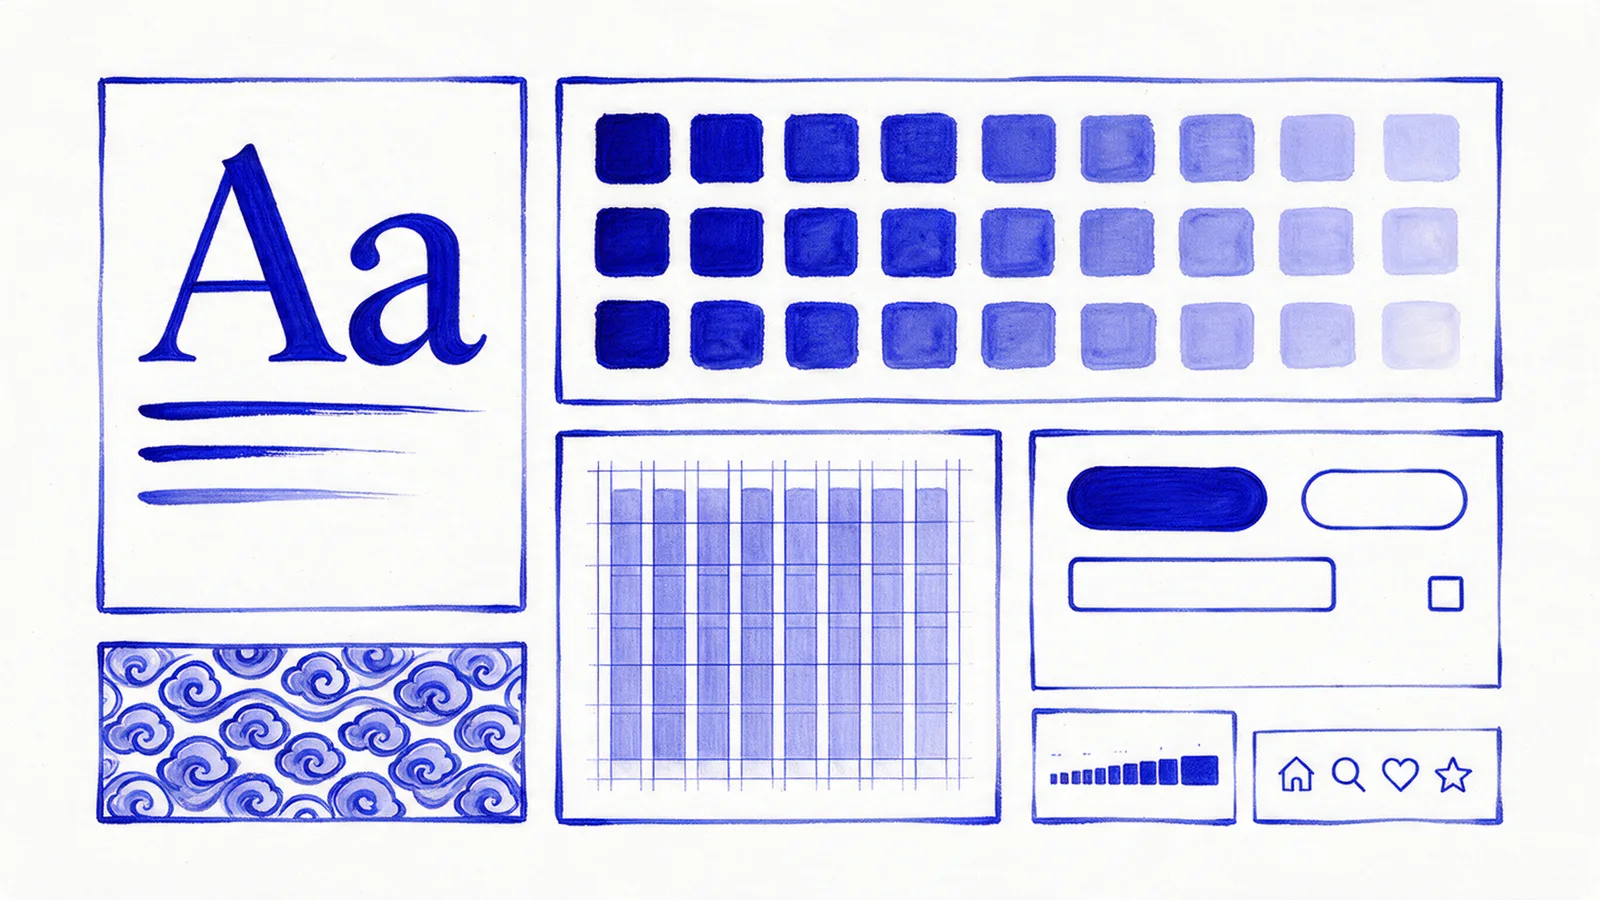
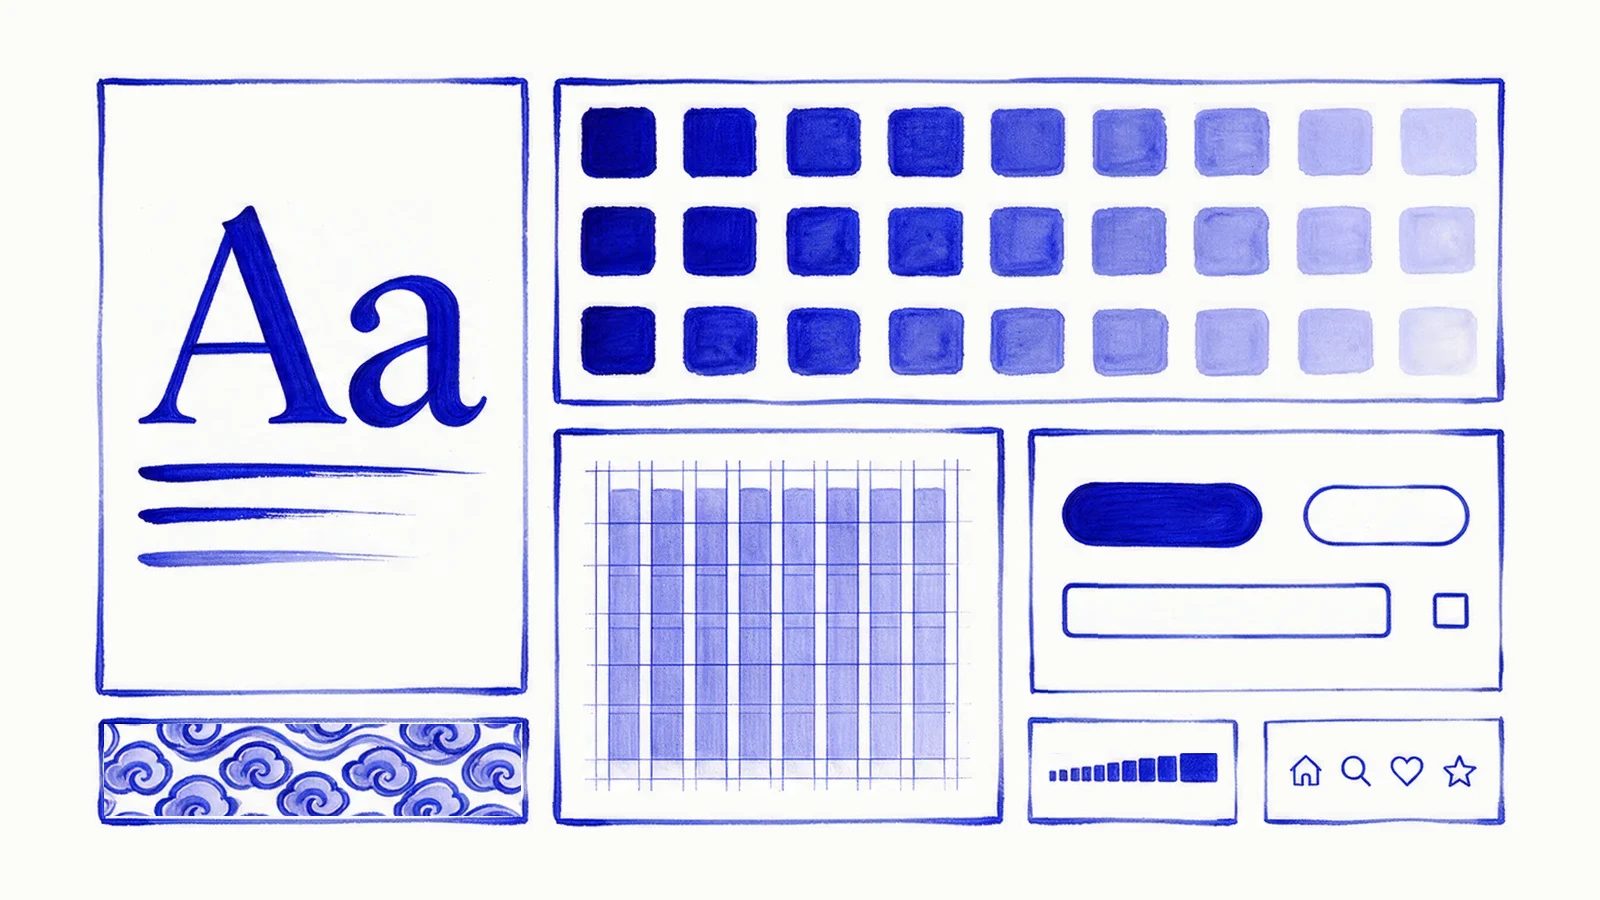
feat: round 12 — brands one per pane, coffee button on phones, pig and vase, contact cloud, framed Workshop lattice, EonX cover on a grid

Changed region(s): [[0.0625, 0.0622, 0.9375, 0.9333], [0.875, 0.3111, 0.9062, 0.3422], [0.8125, 0.3111, 0.8438, 0.3422]]

diff --git a/src/data/clients.ts b/src/data/clients.ts
@@ -1,13 +1,15 @@
 /**
- * The brands in the social-proof window (Clients.astro), in order (Ed, round 11). Drop a logo file in public/logos/
- * and set `logo` to its path (already cobalt: see art/round11/logos/build.mjs, which makes them); until then the
- * name shows as a plain wordmark. Punters and Racenet still need files from Ed (their sites can't be fetched).
+ * The brands in the social-proof window (Clients.astro), one per pane, left to right (Ed, rounds 11 and 12: six panes,
+ * six brands). Drop a logo file in public/logos/ and set `logo` to its path (already cobalt: see
+ * art/round11/logos/build.mjs, which makes them); until then the name shows as a plain wordmark. Punters and Racenet
+ * still need files from Ed (their sites can't be fetched).
  */
 export interface Client { name: string; logo?: string }
 
 export const clients: Client[] = [
   { name: 'Punters' },
   { name: 'Racenet' },
+  { name: 'EonX', logo: '/logos/eonx.webp' },
   { name: 'Mastercard', logo: '/logos/mastercard.webp' },
   { name: 'Crown', logo: '/logos/crown.webp' },
   { name: 'New Aim', logo: '/logos/newaim.webp' },

diff --git a/src/scripts/coffee.ts b/src/scripts/coffee.ts
@@ -90,7 +90,9 @@ export function initCoffee(root: HTMLElement): () => void {
   show(shown);
   render();
 
-  button.addEventListener('click', () => {
+  const sip = root.querySelector<HTMLElement>('[data-sip-cup]');
+  const touch = !window.matchMedia('(hover: hover)').matches;
+  const give = () => {
     const before = stateFor(energy);
     energy = topped(energy);
     cups++;
@@ -103,7 +105,11 @@ export function initCoffee(root: HTMLElement): () => void {
       const r = face.getBoundingClientRect();
       burst(r.left + r.width / 2, r.top + r.height * 0.3);
     }
-  });
+    // touch screens: the cup rises from his lower left and tips to his mouth (Ed, round 12)
+    if (touch && sip) { sip.classList.remove('is-sip'); void sip.offsetWidth; sip.classList.add('is-sip'); }
+  };
+  button.addEventListener('click', give);
+  root.querySelector('[data-caffeinate]')?.addEventListener('click', give);
 
   // the cup: follows the mouse over his face in place of the cursor (mouse and pen only; phones just tap him)
   if (cup && window.matchMedia('(hover: hover)').matches) {

diff --git a/docs/HANDOFF.md b/docs/HANDOFF.md
@@ -1,6 +1,6 @@
 # Porcelain portfolio — handoff
 
-_Last updated 2026-10-05 (after the round 3–8 commit). Read this first in any new session, then the spec._
+_Last updated 2026-10-07 (round 12). Read this first in any new session, then the spec._
 
 ## What this is
 
@@ -150,14 +150,25 @@ latency, plus GPU load that hurts weaker devices. Fixes:
 - Selected work heading and the brands window rise in on their own as you scroll (`[data-reveal-heading]` in `reveal.ts`).
 - EonX cover: the empty strip and stray line removed (Seedream edit `5ff641d0` of the cleaned B, then the leftover stray line painted out locally, `art/round11/eonx-fix-a-clean.png`).
 
+## Round 12 (2026-10-07)
+
+- Brands window: still, one brand centred in each of the six panes (EonX added as the sixth, logo from eonx.com via `art/round11/logos/build.mjs`). The window keeps its painted shape (no crop); pane positions are measured in `Clients.astro` (`PANE6`, `PANE3`). Every logo gets about the same ink (equal area, `AREA`). Phones: two three-pane windows stacked (`public/clients/window-3.webp`, `art/round12/window-3.mjs`, joined on a mullion).
+- About, coffee game: "Running low…" sits right under the energy bar. Touch screens get a "Tap to caffeinate" button; a coffee (button or tapping Ed) brings a cup up from his lower left and tips it to his mouth (`.coffee__sip`, `coffee-drink`).
+- About, "Why a pig and a water vase?": the crane-winged pig from the Contact scroll and the water bearer's vase, repainted on its own (Higgsfield gpt_image_2_5, options `art/round12/vase-1..3.png`, cut by `art/round12/vase-cut.mjs`; option 1, Ed's pick).
+- Contact line and links (every page) sit inside a painted cloud plaque (Seedream with hero ref, options `art/round12/cloud-1..3.png`, cut by `art/round12/cloud-cut.mjs`; option 2 live), left-aligned like an editorial title block (Ed's reference: the Social Impact Capital site). Phones stretch it taller (aspect 1.3) so the words fit.
+- Workshop header: no fades. The octagon lattice sits in a painted frame with mitred corners and hard edges (`public/workshop/frame.webp`, a nine-slice built from the brands window's moulding by `art/round12/frame-build.mjs`). Ed picked layout B: the lattice across the page, the words on a framed paper plaque set into it (phones: a taller window, the plaque low). Layout A (words left, window right) is in `docs/review/round12/workshop-a-vs-b.png`.
+- EonX cover rebuilt on a strict grid from its own painted pieces (`art/round12/eonx-rebuild.mjs`; original kept as `art/round12/eonx-cover-before.webp`): 100px margins, 30px gutters, shared edges, swatches on an exact 9x3 grid, buttons in two aligned rows, stray dots gone, contents centred with equal padding.
+- Comparison sheets: `docs/review/round12/`. Screenshot helper: `node art/round12/shot.mjs <path> <out.png> [w] [h] [selector]` (dev server on BASE, default the preview port).
+- e2e: 10 tests fail, and they fail the same way on the round 11 commit (hero layers, hero spread, footer Back to top, case-study quick links, two About wind/descent tests on mobile). They broke in rounds 10b/11 (Lenis smooth scroll, 4k hero); fix in review round 2. Unit 73 passing.
+
 ## Next steps
 
-Everything through round 11 is committed and pushed to GitHub (`main`) and live on Vercel: https://edwynchen-portfolio.vercel.app.
+Everything through round 12 is committed and pushed to GitHub (`main`) and live on Vercel: https://edwynchen-portfolio.vercel.app.
 
 1. Waiting on Ed: his Formspree form ID (goes in `formspree` in `src/data/site.ts`; until then the contact form opens an email), and the Punters and Racenet logo files (drop in `public/logos/`, run them through `art/round11/logos/build.mjs` or add a cobalt version, set `logo` in `src/data/clients.ts`).
 2. Ed uploads real images for Workshop entries and case studies in Keystatic (run `npm run dev`, edit at /keystatic, push; Keystatic edits files locally, not on the live site).
 3. Ed to check the About page copy line "When I'm not designing, I'm at the gym or hunting down the next good coffee." (written from his bio).
-4. Review round 2 (plan Task 11): four reviewers, screenshots at 1440, tablet and 375.
+4. Review round 2 (plan Task 11): four reviewers, screenshots at 1440, tablet and 375. Start by fixing the 10 stale e2e tests.
 5. Handoff README.
 
 ## Open items for Ed
